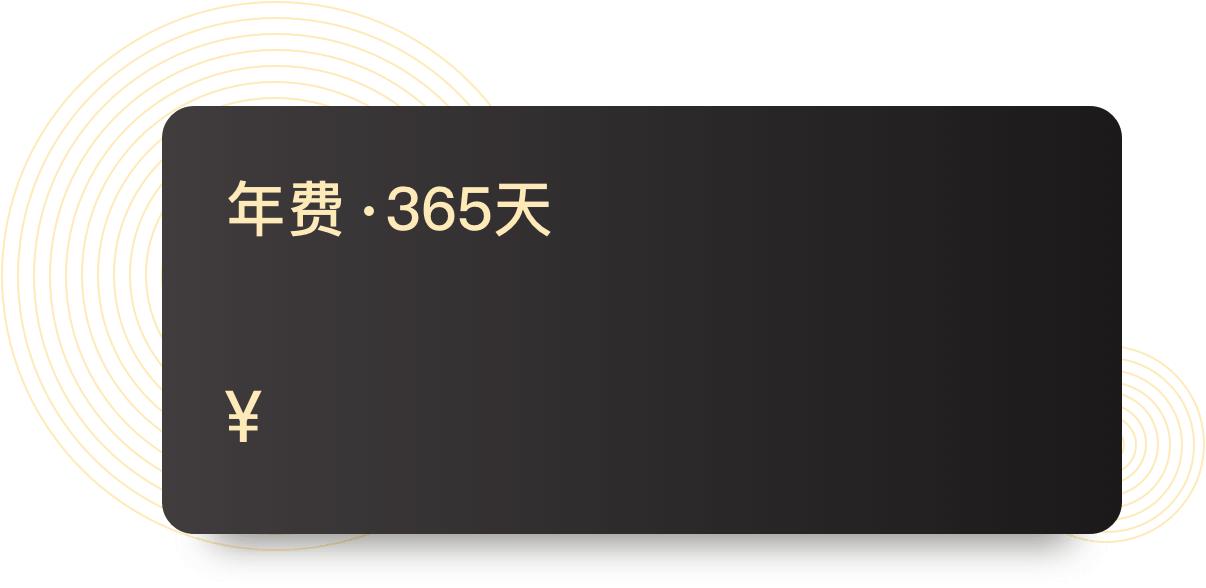
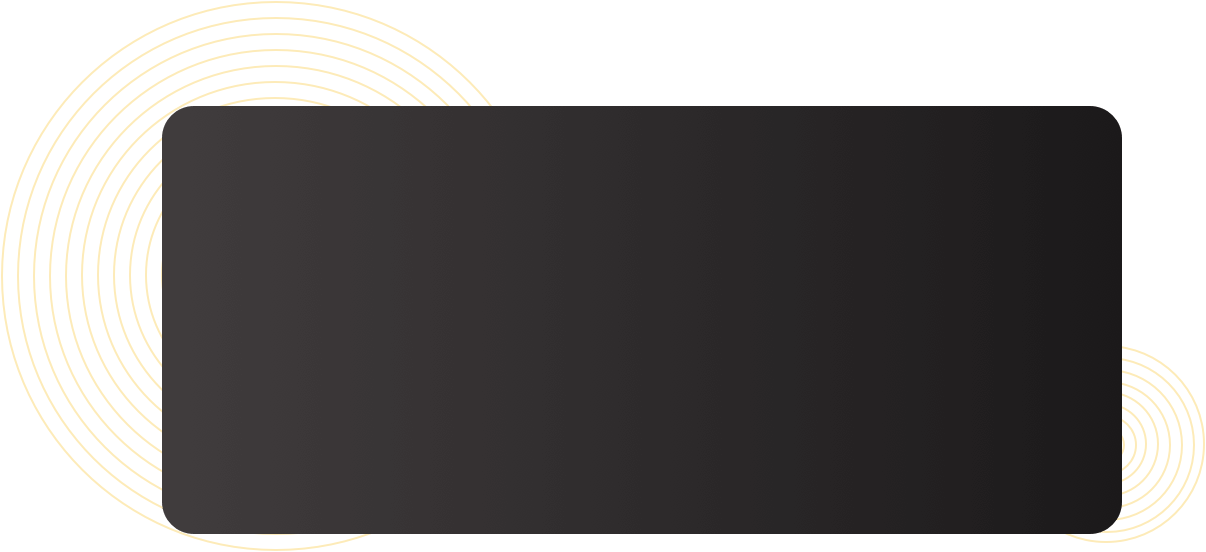
update purchase goods level

Changed region(s): [[0.0, 0.0, 1.0, 1.0], [0.1841, 0.308, 0.4602, 0.4004], [0.1841, 0.6467, 0.2148, 0.7391]]

diff --git a/lib/screens/authorization/purchase.dart b/lib/screens/authorization/purchase.dart
@@ -63,8 +63,10 @@ class PurchaseState extends State<PurchaseScreen>
                               .map((right) => Tab(
                                     child: Row(
                                       children: <Widget>[
-                                        Image.network(right.level.icon,
-                                            width: 16, height: 16),
+                                        right.level.icon.isEmpty
+                                            ? Container()
+                                            : Image.network(right.level.icon,
+                                                width: 16, height: 16),
                                         Container(width: 4),
                                         Text(right.level.name,
                                             style: TextStyle(
@@ -101,7 +103,7 @@ class _Content extends StatelessWidget {
         padding: const EdgeInsets.all(12.0),
         child: Column(
           children: <Widget>[
-            PriceCard(120),
+            PriceCard(right.levelGoods),
             Container(height: 10),
             PurchaseButton('已有授权码，输入兑换 >', () async {
               // TODO: remove test code
@@ -123,9 +125,9 @@ class _Content extends StatelessWidget {
 }
 
 class PriceCard extends StatelessWidget {
-  final int price;
+  final LevelGoods levelGoods;
 
-  PriceCard(this.price);
+  PriceCard(this.levelGoods);
 
   @override
   Widget build(BuildContext context) {
@@ -136,22 +138,31 @@ class PriceCard extends StatelessWidget {
           'assets/price_bg.png',
           fit: BoxFit.contain,
         ),
-        Positioned(
-            child: Row(
+        DefaultTextStyle(
+          style: TextStyle(color: Color(0xFFFCEAB8)),
+          child: Positioned(
+              child: Column(
+                crossAxisAlignment: CrossAxisAlignment.start,
                 children: <Widget>[
-                  Padding(
-                    padding: const EdgeInsets.only(right: 5.0),
-                    child: Text(price.toString(),
-                        style:
-                            TextStyle(color: Color(0xFFFCEAB8), fontSize: 48)),
-                  ),
-                  Text('${(price / 12)}元/月',
-                      style: TextStyle(color: Color(0xFFFCEAB8), fontSize: 13))
+                  Text('${levelGoods.typeName}⋅${levelGoods.days}天',
+                      style: TextStyle(fontSize: 15)),
+                  Container(height: 12),
+                  Row(
+                      children: <Widget>[
+                        Text('￥', style: TextStyle(fontSize: 18)),
+                        Text(levelGoods.price, style: TextStyle(fontSize: 48)),
+                        Container(width: 5),
+                        Text(
+                            '${levelGoods.perPrice}元/${levelGoods.perUnitName}',
+                            style: TextStyle(fontSize: 13))
+                      ],
+                      crossAxisAlignment: CrossAxisAlignment.baseline,
+                      textBaseline: TextBaseline.alphabetic),
                 ],
-                crossAxisAlignment: CrossAxisAlignment.baseline,
-                textBaseline: TextBaseline.alphabetic),
-            left: 65,
-            bottom: 28),
+              ),
+              left: 60,
+              top: 45),
+        ),
       ],
     ));
   }
@@ -199,7 +210,7 @@ class _FeatureList extends StatelessWidget {
             crossAxisCount: 3,
             mainAxisSpacing: 20,
             crossAxisSpacing: 5,
-            childAspectRatio: 1.7,
+            childAspectRatio: 1.8,
             children: features
                 .map((item) => GridTile(
                         child: Container(

diff --git a/lib/models/purchase.dart b/lib/models/purchase.dart
@@ -1,12 +1,14 @@
 class Right {
   final Level level;
   final List<Feature> features;
+  final LevelGoods levelGoods;
 
-  Right({this.level, this.features});
+  Right({this.level, this.features, this.levelGoods});
 
   factory Right.fromJson(Map<dynamic, dynamic> json) {
     return new Right(
         level: new Level.fromJson(json['level']),
+        levelGoods: new LevelGoods.fromJson(json['levelGoods']),
         features: List<Feature>.from(
             json['features'].map((item) => new Feature.fromJSON(item))));
   }
@@ -26,11 +28,34 @@ class Level {
         id: json['id'],
         level: json['level'],
         name: json['name'],
-        // icon: json['icon'],
-        icon: 'https://i.loli.net/2019/06/09/5cfcecf50b1a933337.png',
+        icon: json['icon'],
         desc: json['desc']);
   }
 }
+
+class LevelGoods {
+  final String typeName;
+  final String price;
+  final int perUnit;
+  final String perUnitName;
+  final String perPrice;
+  final int days;
+
+  LevelGoods(
+      {this.typeName, this.price, this.perUnit, this.perUnitName, this.perPrice, this.days});
+
+  factory LevelGoods.fromJson(Map<dynamic, dynamic> json) {
+    return new LevelGoods(
+      typeName: json['typeName'],
+      price: json['price'],
+      perUnit: json['perUnit'],
+      perUnitName: json['perUnitName'],
+      perPrice: json['perPrice'],
+      days: json['days'],
+    );
+  }
+}
+
 
 class Feature {
   final String name;
@@ -42,8 +67,7 @@ class Feature {
   factory Feature.fromJSON(Map<dynamic, dynamic> json) {
     return new Feature(
       name: json['name'],
-      // icon: json['icon'],
-      icon: 'https://i.loli.net/2019/06/09/5cfcecf50b1a933337.png',
+      icon: json['icon'],
       desc: json['desc'],
     );
   }
